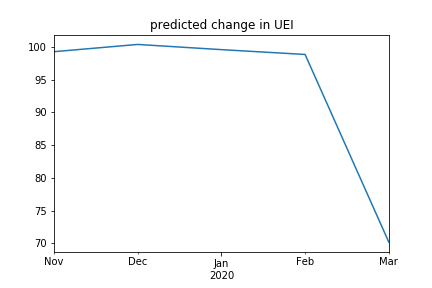
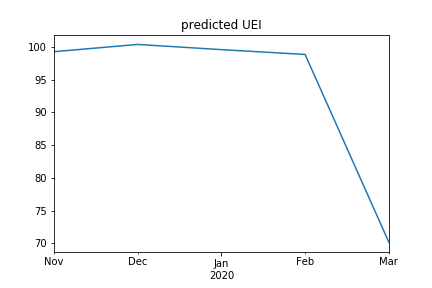
small change in title.

Changed region(s): [[0.331, 0.0625, 0.6921, 0.125]]

diff --git a/Python/PredictUE.py b/Python/PredictUE.py
@@ -487,7 +487,7 @@ plt.savefig('figures/ue_change_predict_realized_uei')
 # ## Zoom-in the recent sample 
 # -
 
-df['ue_exp_idx_prd'].tail().plot(title = 'predicted change in UEI')
+df['ue_exp_idx_prd'].tail().plot(title = 'predicted UEI')
 plt.savefig('figures/ue_exp_idx_predict_recent')
 
 df['ue_chg_prd'].tail().plot(title = 'predicted YoY change in unemployment rate')
